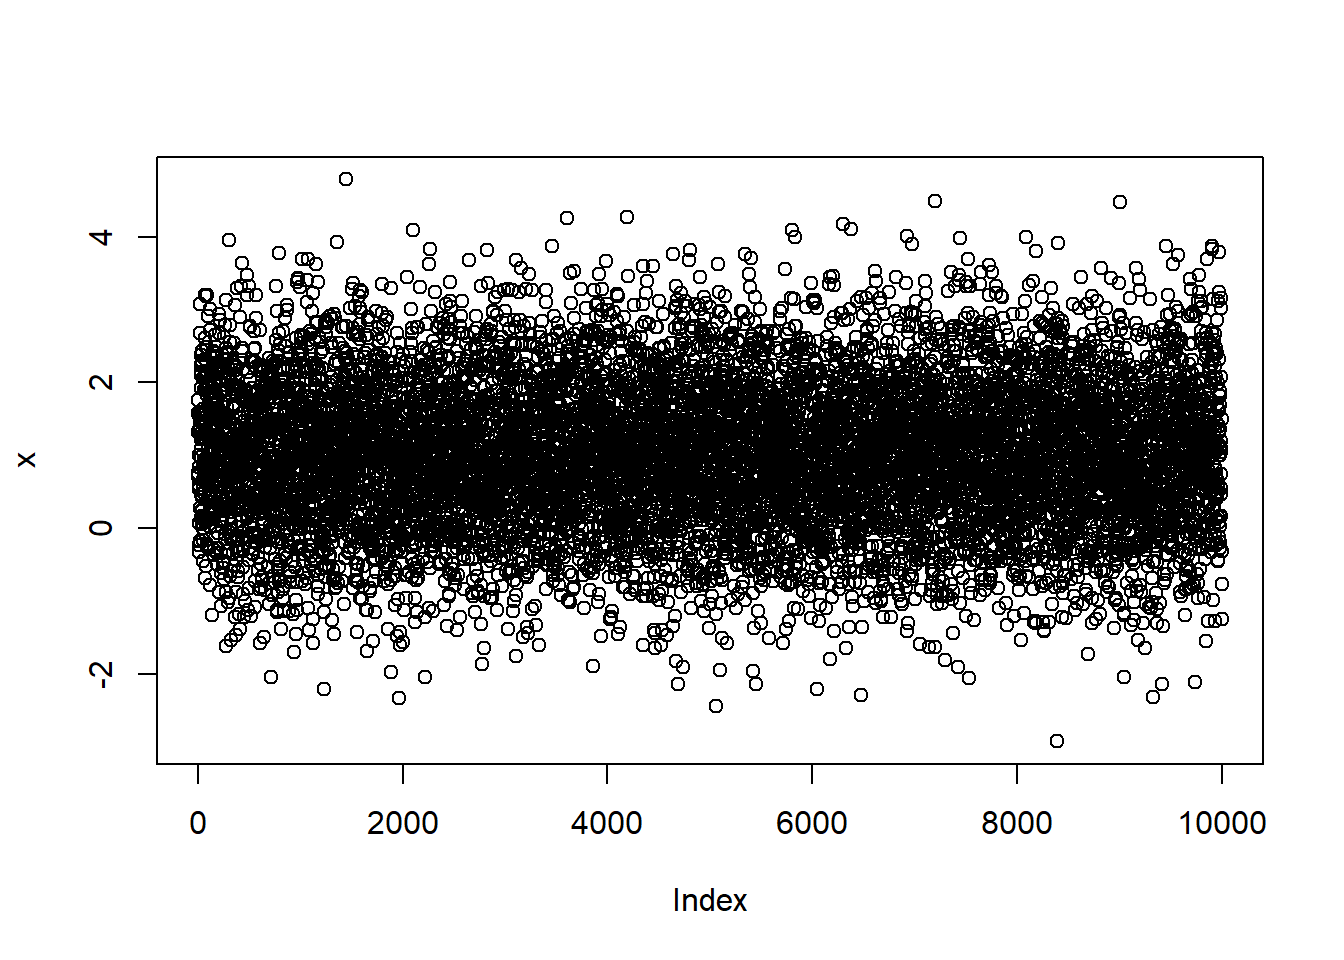
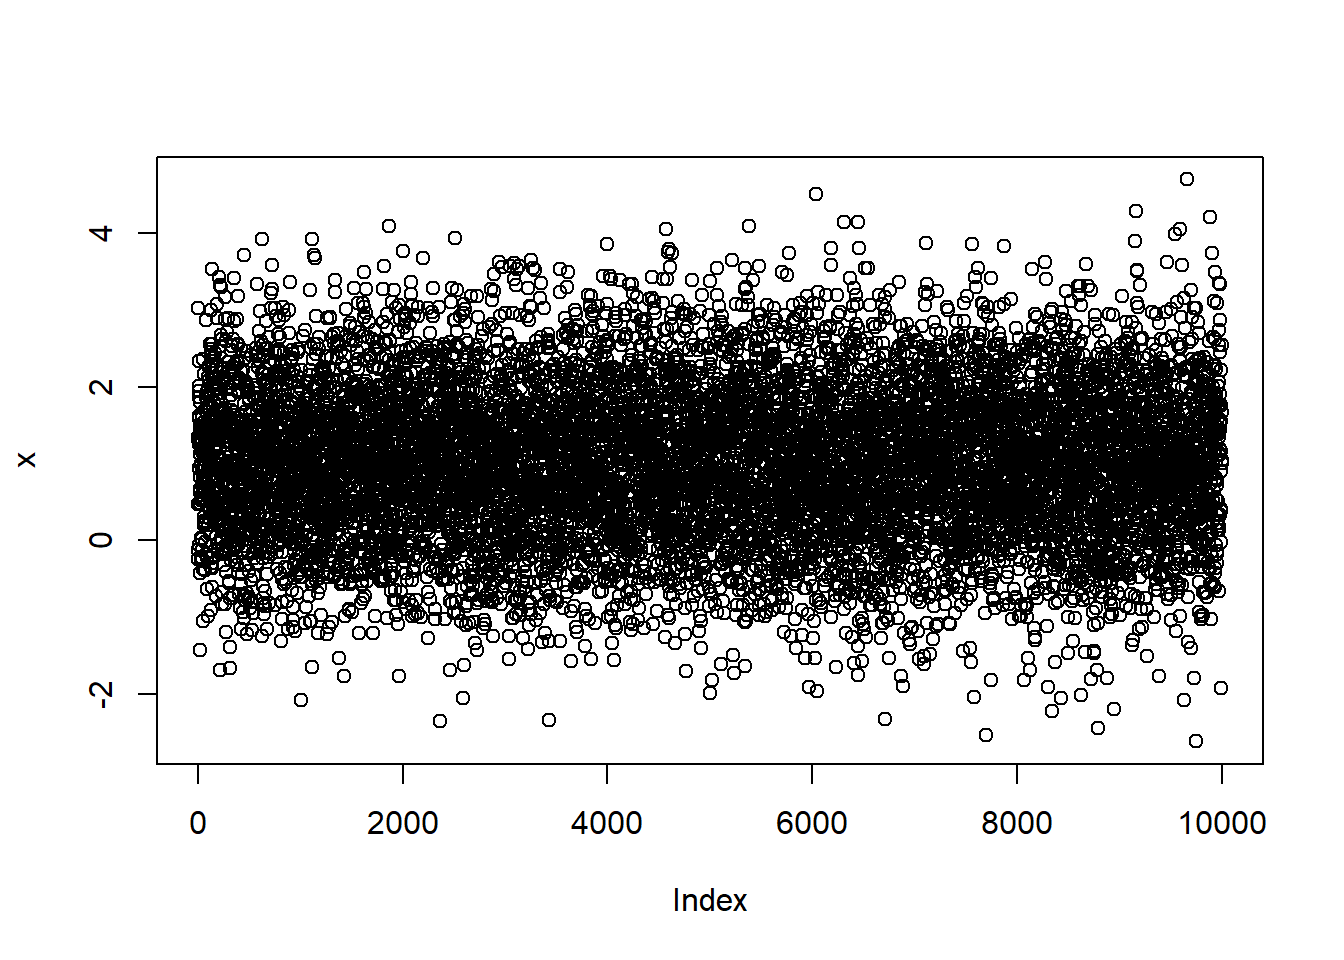
dfv

diff --git a/content/post/2019-05-10-comando-basicos-r.html b/content/post/2019-05-10-comando-basicos-r.html
@@ -27,24 +27,30 @@ image:
 </ul></li>
 <li><a href="#tudo-no-r-e-objeto">Tudo no R é objeto</a><ul>
 <li><a href="#armazenando-dados-em-objetos">Armazenando dados em objetos</a></li>
-<li><a href="#concatenando-diversos-valores-e-atribuindo-os-a-um-objeto">Concatenando diversos valores e atribuindo-os a um objeto</a></li>
+<li><a href="#concatenando-diversos-valores-e-armazenando-os-a-um-objeto">Concatenando diversos valores e armazenando-os a um objeto</a></li>
 <li><a href="#extraindo-um-ou-mais-valores-de-um-objeto-a-partir-da-indexacao">Extraindo um ou mais valores de um objeto a partir da indexação</a></li>
-<li><a href="#operadores-de-logica">Operadores de lógica</a></li>
-<li><a href="#tipos-de-dados">TIPOS DE DADOS</a><ul>
+<li><a href="#principais-tipos-de-objetos">PRINCIPAIS <strong>TIPOS</strong> DE OBJETOS</a><ul>
+<li><a href="#funcoes">funções</a></li>
+<li><a href="#vetor">vetor</a></li>
+<li><a href="#matriz">matriz</a></li>
+<li><a href="#dataframe">dataframe</a></li>
+<li><a href="#array">array</a></li>
+<li><a href="#lista">lista</a></li>
+</ul></li>
+<li><a href="#principais-classes-de-objetos">PRINCIPAIS <strong>CLASSES</strong> DE OBJETOS</a><ul>
 <li><a href="#numerical">numerical</a></li>
 <li><a href="#character">character</a></li>
 <li><a href="#valores-logicos">valores lógicos</a></li>
 <li><a href="#factor">factor</a></li>
-<li><a href="#vetor">vetor</a></li>
-<li><a href="#lista">lista</a></li>
-<li><a href="#matriz">matriz</a></li>
-<li><a href="#dataframe">dataframe</a></li>
 </ul></li>
+<li><a href="#operadores-de-logica">Operadores de lógica</a></li>
 <li><a href="#funcoes-if-e-else">Funções <code>if</code> e <code>else</code></a></li>
 <li><a href="#funcao-for">Função <code>for</code></a></li>
 <li><a href="#ou">…ou</a></li>
+</ul></li>
+<li><a href="#gerando-numeros-aleatorios-e-amostragem">Gerando números aleatórios e amostragem</a><ul>
 <li><a href="#histograma">Histograma</a></li>
-<li><a href="#grafico-de-disperso">Gráfico de dispers?o</a></li>
+<li><a href="#grafico-de-dispersao">Gráfico de dispersão</a></li>
 <li><a href="#barplot">Barplot</a></li>
 <li><a href="#boxplot">Boxplot</a></li>
 <li><a href="#torta">Torta</a></li>
@@ -238,7 +244,7 @@ Auckland, ajudaram Ross Ihaka a desenvolver a versão para Macintosh.</p>
 ## cite it when using it for data analysis. See also
 ## &#39;citation(&quot;pkgname&quot;)&#39; for citing R packages.</code></pre>
 <pre class="r"><code>Sys.time()                  # obtém data e hora exata do sistema</code></pre>
-<pre><code>## [1] &quot;2019-05-16 00:40:16 -03&quot;</code></pre>
+<pre><code>## [1] &quot;2019-05-16 12:05:01 -03&quot;</code></pre>
 </div>
 <div id="operadores-simples-e-funcoes-matematicas" class="section level2">
 <h2>Operadores simples e funções matemáticas</h2>
@@ -283,24 +289,27 @@ Auckland, ajudaram Ross Ihaka a desenvolver a versão para Macintosh.</p>
 </div>
 <div id="funcoes-trigonometricas" class="section level2">
 <h2>Funções trigonométricas</h2>
-<pre class="r"><code>cos(10)                     # cosseno</code></pre>
-<pre><code>## [1] -0.8390715</code></pre>
-<pre class="r"><code>sin(10)                     # seno</code></pre>
-<pre><code>## [1] -0.5440211</code></pre>
-<pre class="r"><code>tan(10)                     # tangente</code></pre>
-<pre><code>## [1] 0.6483608</code></pre>
-<pre class="r"><code>acos(0.1)                   # arco cosseno</code></pre>
-<pre><code>## [1] 1.470629</code></pre>
-<pre class="r"><code>asin(1)                     # arco seno</code></pre>
-<pre><code>## [1] 1.570796</code></pre>
-<pre class="r"><code>atan(1)                     # arco tangente</code></pre>
-<pre><code>## [1] 0.7853982</code></pre>
-<pre class="r"><code>acosh(10)                   # arco cosseno hiperbólico</code></pre>
-<pre><code>## [1] 2.993223</code></pre>
-<pre class="r"><code>asinh(0.1)                  # arco seno hiperbólico</code></pre>
-<pre><code>## [1] 0.09983408</code></pre>
-<pre class="r"><code>atanh(0.1)                  # arco tangente hiperbólico</code></pre>
-<pre><code>## [1] 0.1003353</code></pre>
+<pre class="r"><code>cos(30)         # cosseno</code></pre>
+<pre><code>## [1] 0.1542514</code></pre>
+<pre class="r"><code>sin(45)         # seno</code></pre>
+<pre><code>## [1] 0.8509035</code></pre>
+<pre class="r"><code>tan(90)         # tangente</code></pre>
+<pre><code>## [1] -1.9952</code></pre>
+<pre class="r"><code>acos(45)        # arco cosseno</code></pre>
+<pre><code>## Warning in acos(45): NaNs produzidos</code></pre>
+<pre><code>## [1] NaN</code></pre>
+<pre class="r"><code>asin(30)        # arco seno</code></pre>
+<pre><code>## Warning in asin(30): NaNs produzidos</code></pre>
+<pre><code>## [1] NaN</code></pre>
+<pre class="r"><code>atan(60)        # arco tangente</code></pre>
+<pre><code>## [1] 1.554131</code></pre>
+<pre class="r"><code>acosh(30)       # arco cosseno hiperbólico</code></pre>
+<pre><code>## [1] 4.094067</code></pre>
+<pre class="r"><code>asinh(45)       # arco seno hiperbólico</code></pre>
+<pre><code>## [1] 4.499933</code></pre>
+<pre class="r"><code>atanh(60)       # arco tangente hiperbólico</code></pre>
+<pre><code>## Warning in atanh(60): NaNs produzidos</code></pre>
+<pre><code>## [1] NaN</code></pre>
 </div>
 <div id="sequencias" class="section level2">
 <h2>Sequências</h2>
@@ -314,9 +323,9 @@ Auckland, ajudaram Ross Ihaka a desenvolver a versão para Macintosh.</p>
 </div>
 <div id="repeticoes" class="section level2">
 <h2>Repetições</h2>
-<pre class="r"><code>rep(5.3, 17)                    # Repete o valor 5.3, 17 vezes</code></pre>
+<pre class="r"><code>rep(5.3, 17)          # Repete o valor 5.3, 17 vezes</code></pre>
 <pre><code>##  [1] 5.3 5.3 5.3 5.3 5.3 5.3 5.3 5.3 5.3 5.3 5.3 5.3 5.3 5.3 5.3 5.3 5.3</code></pre>
-<pre class="r"><code>rep(1:6, rep(3))                # Repete a sequência 1 a 6, 3 vezes</code></pre>
+<pre class="r"><code>rep(1:6, rep(3))      # Repete a sequência 1 a 6, 3 vezes</code></pre>
 <pre><code>##  [1] 1 2 3 4 5 6 1 2 3 4 5 6 1 2 3 4 5 6</code></pre>
 </div>
 <div id="constantes-do-r" class="section level2">
@@ -356,8 +365,8 @@ Auckland, ajudaram Ross Ihaka a desenvolver a versão para Macintosh.</p>
 <div id="tudo-no-r-e-objeto" class="section level1">
 <h1>Tudo no R é objeto</h1>
 <p>{{% alert note %}}
-O R é uma linguagem de <strong>POO</strong> (Programação Orientada a Objetos)<br />
-Todo objeto possui uma <strong>CLASSE</strong>
+O R é uma linguagem de <strong>POO</strong> (Programação Orientada a Objetos)</p>
+<p>Todo objeto possui uma <strong>CLASSE</strong>
 {{% /alert %}}</p>
 <div id="armazenando-dados-em-objetos" class="section level2">
 <h2>Armazenando dados em objetos</h2>
@@ -371,8 +380,8 @@ y</code></pre>
 z</code></pre>
 <pre><code>## [1] 11 12 13 14 15</code></pre>
 </div>
-<div id="concatenando-diversos-valores-e-atribuindo-os-a-um-objeto" class="section level2">
-<h2>Concatenando diversos valores e atribuindo-os a um objeto</h2>
+<div id="concatenando-diversos-valores-e-armazenando-os-a-um-objeto" class="section level2">
+<h2>Concatenando diversos valores e armazenando-os a um objeto</h2>
 <pre class="r"><code>w &lt;- c(4,5,6,7,8)
 w</code></pre>
 <pre><code>## [1] 4 5 6 7 8</code></pre>
@@ -383,27 +392,31 @@ w</code></pre>
 <pre><code>## [1] 6</code></pre>
 <pre class="r"><code>w[c(1,4)]</code></pre>
 <pre><code>## [1] 4 7</code></pre>
-</div>
-<div id="operadores-de-logica" class="section level2">
-<h2>Operadores de lógica</h2>
-<pre class="r"><code>a &lt;- c(1:10)
-a</code></pre>
-<pre><code>##  [1]  1  2  3  4  5  6  7  8  9 10</code></pre>
-<pre class="r"><code>a[(a&gt;8) | (a&lt;5)]</code></pre>
-<pre><code>## [1]  1  2  3  4  9 10</code></pre>
-<p>Como funciona…</p>
-<pre class="r"><code>a &gt; 8</code></pre>
-<pre><code>##  [1] FALSE FALSE FALSE FALSE FALSE FALSE FALSE FALSE  TRUE  TRUE</code></pre>
-<pre class="r"><code>a &lt; 5</code></pre>
-<pre><code>##  [1]  TRUE  TRUE  TRUE  TRUE FALSE FALSE FALSE FALSE FALSE FALSE</code></pre>
-<pre class="r"><code>a &gt; 8 | x &lt; 5</code></pre>
-<pre><code>##  [1]  TRUE  TRUE  TRUE  TRUE FALSE  TRUE  TRUE  TRUE  TRUE  TRUE</code></pre>
-<pre class="r"><code>a[c(T,T,T,T,F,F,F,F,T,T)]</code></pre>
-<pre><code>## [1]  1  2  3  4  9 10</code></pre>
 <hr />
 </div>
-<div id="tipos-de-dados" class="section level2">
-<h2>TIPOS DE DADOS</h2>
+<div id="principais-tipos-de-objetos" class="section level2">
+<h2>PRINCIPAIS <strong>TIPOS</strong> DE OBJETOS</h2>
+<div id="funcoes" class="section level3">
+<h3>funções</h3>
+</div>
+<div id="vetor" class="section level3">
+<h3>vetor</h3>
+</div>
+<div id="matriz" class="section level3">
+<h3>matriz</h3>
+</div>
+<div id="dataframe" class="section level3">
+<h3>dataframe</h3>
+</div>
+<div id="array" class="section level3">
+<h3>array</h3>
+</div>
+<div id="lista" class="section level3">
+<h3>lista</h3>
+</div>
+</div>
+<div id="principais-classes-de-objetos" class="section level2">
+<h2>PRINCIPAIS <strong>CLASSES</strong> DE OBJETOS</h2>
 <div id="numerical" class="section level3">
 <h3>numerical</h3>
 </div>
@@ -440,18 +453,6 @@ kids</code></pre>
 <pre class="r"><code>mode(kids)</code></pre>
 <pre><code>## [1] &quot;numeric&quot;</code></pre>
 <p>(continua…)</p>
-</div>
-<div id="vetor" class="section level3">
-<h3>vetor</h3>
-</div>
-<div id="lista" class="section level3">
-<h3>lista</h3>
-</div>
-<div id="matriz" class="section level3">
-<h3>matriz</h3>
-</div>
-<div id="dataframe" class="section level3">
-<h3>dataframe</h3>
 <pre class="r"><code>jim &lt;- list(height = 2.54 * 12 * 6/100, weight = 180/2.2, name = &quot;James&quot;)
 jim</code></pre>
 <pre><code>## $height
@@ -545,50 +546,6 @@ matrix</code></pre>
 <pre class="r"><code>length(matrix)</code></pre>
 <pre><code>## [1] 12</code></pre>
 <hr />
-<pre class="r"><code>runif(100) # Gera números aleatórios entre 0 e 1 com distribuição uniforme</code></pre>
-<pre><code>##   [1] 0.8873295109 0.9131463463 0.9363831126 0.3236426108 0.2068508908
-##   [6] 0.9138866141 0.9935081119 0.9784298572 0.8969238433 0.4201863534
-##  [11] 0.6530961702 0.6874217289 0.6223604665 0.9766138310 0.0900402269
-##  [16] 0.0051619299 0.9070598122 0.3184204614 0.7529286484 0.3960770736
-##  [21] 0.5720127875 0.7606621776 0.0369924824 0.8041898580 0.9657113913
-##  [26] 0.5596684483 0.2991447260 0.2349487063 0.1214449562 0.5782868525
-##  [31] 0.4962262507 0.3338150478 0.5939750602 0.8810042066 0.1438365683
-##  [36] 0.3792009465 0.8941506092 0.1711953434 0.3744596653 0.2820363517
-##  [41] 0.0003455218 0.4538308461 0.7634957053 0.6191116029 0.8940538184
-##  [46] 0.2969688131 0.2676801977 0.5710057192 0.3340058047 0.1555532461
-##  [51] 0.7130892049 0.5369954084 0.9102263395 0.8420072326 0.0798368461
-##  [56] 0.9967052385 0.8342100598 0.4553865283 0.7420275265 0.3043108678
-##  [61] 0.7950190625 0.1915188895 0.4974727363 0.5633286634 0.1848770774
-##  [66] 0.7636844546 0.7276212287 0.0982154850 0.7395755399 0.3271181602
-##  [71] 0.0999372192 0.5591167014 0.3270326634 0.9577630456 0.2030441810
-##  [76] 0.4183535585 0.3155397768 0.0726431387 0.5432731495 0.4245309632
-##  [81] 0.9037229060 0.4725517058 0.7878451950 0.1007448426 0.4780097369
-##  [86] 0.6007058762 0.5395689260 0.8490825163 0.1604597857 0.0242628243
-##  [91] 0.3790111227 0.5420017506 0.3500973326 0.1834478767 0.0337370902
-##  [96] 0.4047735152 0.3491395584 0.8650103284 0.4841578754 0.1775402264</code></pre>
-<pre class="r"><code>rnorm(100) # Gera números aleatórios com distribuição normal</code></pre>
-<pre><code>##   [1]  0.162131949  1.673123120  2.035505127 -0.377971104  0.518950499
-##   [6]  0.557857346 -1.404892088  0.627609703  2.029111035  0.026293848
-##  [11] -0.477998888  1.440135274  0.912397117  0.254027142 -0.803328136
-##  [16] -0.538083299 -1.254555417  1.706929384 -0.228950435  0.289924176
-##  [21] -0.606942951  0.766265725  1.162277912  1.268532732  0.432133549
-##  [26] -1.353529829 -0.947552988 -0.242688956  0.332814136  1.174053680
-##  [31] -0.439897585 -0.556624085 -0.727591258  0.966068707 -1.760733692
-##  [36] -0.080080033  0.224086876 -1.076474633 -1.297123469 -0.693354977
-##  [41] -0.793807509  1.340377071  0.341324213  0.767729505 -1.257976438
-##  [46] -0.739855220  1.322391848 -0.626104173  0.801680489 -0.535756463
-##  [51] -0.071695689 -0.232261362  0.232025133  0.435674307  0.441455002
-##  [56] -0.175360774 -1.552028368 -0.336766085 -2.568691983  2.179560632
-##  [61] -1.523430855 -0.709488354  2.006395271 -0.378403143 -0.660395481
-##  [66]  0.692669400 -0.561615587 -0.622423739 -0.662013239 -0.025664792
-##  [71]  1.010408909  1.595756366 -2.297893733  0.394567243 -1.340153549
-##  [76] -0.927804516  1.664832538 -1.100272551  1.221449006 -0.779876602
-##  [81]  2.337946840 -0.644779745 -0.805687139 -0.434966667 -0.066357195
-##  [86] -0.622706169  0.474719489  0.644952947  0.734770286 -0.337376138
-##  [91] -1.815855105 -0.697656195  1.599978779 -0.498202858 -0.813662642
-##  [96] -0.376399118  0.002126588  0.073807532 -2.338377033 -0.267045133</code></pre>
-<pre class="r"><code>sample(1:100, 4) # Amostragem</code></pre>
-<pre><code>## [1] 66 99 61 17</code></pre>
 <p>#Funções vetoriais
 max(x) # valor máximo em x
 min(x) # valor mínimo em x
@@ -611,17 +568,34 @@ ncol(x) #Número de colunas da matriz
 attr(x)</p>
 </div>
 </div>
+<div id="operadores-de-logica" class="section level2">
+<h2>Operadores de lógica</h2>
+<pre class="r"><code>a &lt;- c(1:10)
+a</code></pre>
+<pre><code>##  [1]  1  2  3  4  5  6  7  8  9 10</code></pre>
+<pre class="r"><code>a[(a&gt;8) | (a&lt;5)]</code></pre>
+<pre><code>## [1]  1  2  3  4  9 10</code></pre>
+<p>Como funciona…</p>
+<pre class="r"><code>a &gt; 8</code></pre>
+<pre><code>##  [1] FALSE FALSE FALSE FALSE FALSE FALSE FALSE FALSE  TRUE  TRUE</code></pre>
+<pre class="r"><code>a &lt; 5</code></pre>
+<pre><code>##  [1]  TRUE  TRUE  TRUE  TRUE FALSE FALSE FALSE FALSE FALSE FALSE</code></pre>
+<pre class="r"><code>a &gt; 8 | x &lt; 5</code></pre>
+<pre><code>##  [1] FALSE FALSE FALSE FALSE FALSE FALSE FALSE FALSE  TRUE  TRUE</code></pre>
+<pre class="r"><code>a[c(T,T,T,T,F,F,F,F,T,T)]</code></pre>
+<pre><code>## [1]  1  2  3  4  9 10</code></pre>
+</div>
 <div id="funcoes-if-e-else" class="section level2">
 <h2>Funções <code>if</code> e <code>else</code></h2>
 <pre class="r"><code>x &lt;- 2
 if(x == 1) {         
-  Sys.time()      # Devolve a data/hora no momento da execu??o.
+  Sys.time()
 }
 x &lt;- 1
 if(x == 1) {
   Sys.time()
 }</code></pre>
-<pre><code>## [1] &quot;2019-05-16 00:40:18 -03&quot;</code></pre>
+<pre><code>## [1] &quot;2019-05-16 12:05:03 -03&quot;</code></pre>
 <pre class="r"><code>if(x &lt; 0) {
   sinal &lt;- &quot;negativo&quot;
 } else if(x == 0) {
@@ -634,7 +608,7 @@ sinal</code></pre>
 </div>
 <div id="funcao-for" class="section level2">
 <h2>Função <code>for</code></h2>
-<pre class="r"><code>x &lt;- 1:10   # Cria um vetor com a sequ?ncia 1, 2, ..., 10.
+<pre class="r"><code>x &lt;- 1:10   # Cria um vetor com a sequência 1, 2, ..., 10.
 soma &lt;- 0
 for(i in 1:10) {
   soma &lt;- soma + x[i]
@@ -646,24 +620,72 @@ soma</code></pre>
 <h2>…ou</h2>
 <pre class="r"><code>sum(x)</code></pre>
 <pre><code>## [1] 55</code></pre>
+<hr />
 </div>
+</div>
+<div id="gerando-numeros-aleatorios-e-amostragem" class="section level1">
+<h1>Gerando números aleatórios e amostragem</h1>
+<pre class="r"><code>runif(100)        # Gera números aleatórios entre 0 e 1 com distribuição uniforme</code></pre>
+<pre><code>##   [1] 0.74868471 0.65302577 0.59695364 0.55191148 0.32367409 0.50151795
+##   [7] 0.73200879 0.32027399 0.74268824 0.22065408 0.94536031 0.35376165
+##  [13] 0.92954102 0.33572480 0.80530736 0.41712829 0.68905828 0.70772629
+##  [19] 0.27111391 0.10935925 0.90254411 0.68728077 0.37850139 0.61874865
+##  [25] 0.10500243 0.75810282 0.67866942 0.13475690 0.10595073 0.80810289
+##  [31] 0.93698392 0.97372232 0.62906478 0.62958915 0.31291607 0.72384826
+##  [37] 0.94849183 0.44476111 0.24896516 0.13864263 0.68392851 0.11074143
+##  [43] 0.83151530 0.97213242 0.25686078 0.59969925 0.71328982 0.38620925
+##  [49] 0.75160951 0.48872754 0.28012227 0.55768422 0.98274667 0.63228730
+##  [55] 0.71839802 0.90468774 0.56187824 0.22425593 0.08417468 0.88762021
+##  [61] 0.71924922 0.05556459 0.39070650 0.14712495 0.57410049 0.45704987
+##  [67] 0.10567661 0.44479792 0.97438534 0.63878716 0.47128369 0.75063800
+##  [73] 0.23242981 0.04554077 0.48599683 0.07947313 0.41405370 0.65925056
+##  [79] 0.83474741 0.86518329 0.96686736 0.59652100 0.81870572 0.36835734
+##  [85] 0.39691555 0.94663948 0.24698887 0.07792741 0.64322108 0.30372731
+##  [91] 0.64177957 0.55584117 0.31437438 0.09927427 0.78746569 0.66986416
+##  [97] 0.32156624 0.38379057 0.60148639 0.72402225</code></pre>
+<pre class="r"><code>rnorm(100)        # Gera números aleatórios com distribuição normal</code></pre>
+<pre><code>##   [1]  0.431780006  0.551085206  1.018301452 -0.574007364 -0.454427141
+##   [6] -0.005939572  1.725295736  0.656484200 -0.117976666  0.749237744
+##  [11]  0.848984682 -1.203014499  1.939838703 -0.717859808  0.158722889
+##  [16]  0.814551785  0.281165896 -1.438669475 -0.798366331 -0.602131220
+##  [21]  0.458247909  0.379899883  0.596349359 -0.434007042 -0.066142898
+##  [26] -0.552351753 -1.454676105 -0.060509268 -0.535588303  0.269917268
+##  [31] -1.374923291 -0.149262517 -0.636440901 -0.152797825  0.699620539
+##  [36] -1.193991366  0.134376641 -0.433574769  0.087213664 -0.588150113
+##  [41] -0.524037840  0.513239710  2.477652029 -0.394012891 -0.843399586
+##  [46] -0.600943333 -1.306353116  0.747255150  1.136412689  0.649126434
+##  [51]  0.081331098 -0.113042455  1.083298802 -0.623290019  0.771415156
+##  [56] -0.475418404  0.126608504 -2.094576179 -2.054114998  1.339317108
+##  [61]  0.771909817  0.587450000  2.114556506  1.332068760 -0.162421013
+##  [66] -0.071938850 -0.310777538  0.664508468  0.568069227  0.404157788
+##  [71] -1.421518540  0.002099416  1.365489933  0.908208795 -0.804269497
+##  [76]  0.787693234 -0.949336859 -0.914661942 -0.317537566  1.818867602
+##  [81] -1.176210724  1.284287023  0.325723182  1.534362965 -0.621786396
+##  [86] -1.427521611 -0.272563680 -0.176397294  0.038684393 -2.172352371
+##  [91]  0.128287127 -1.529630299 -0.709852335 -0.014338814 -0.588561083
+##  [96] -0.542564377  0.191409736 -0.969097636  0.317898411 -0.078986738</code></pre>
+<pre class="r"><code>sample(1:100, 4)  # Amostragem</code></pre>
+<pre><code>## [1] 24  6 96 81</code></pre>
 <div id="histograma" class="section level2">
 <h2>Histograma</h2>
 <pre class="r"><code>x &lt;- rnorm(n=10000, mean=1, sd=1)
 hist(x, nclass = 40)</code></pre>
 <p><img src="2019-05-10-comando-basicos-r_files/figure-html/unnamed-chunk-26-1.png" width="672" /></p>
 </div>
-<div id="grafico-de-disperso" class="section level2">
-<h2>Gráfico de dispers?o</h2>
-<p>plot(x)</p>
+<div id="grafico-de-dispersao" class="section level2">
+<h2>Gráfico de dispersão</h2>
+<pre class="r"><code>plot(x)</code></pre>
+<p><img src="2019-05-10-comando-basicos-r_files/figure-html/unnamed-chunk-27-1.png" width="672" /></p>
 </div>
 <div id="barplot" class="section level2">
 <h2>Barplot</h2>
-<p>barplot(x)</p>
+<pre class="r"><code>barplot(x)</code></pre>
+<p><img src="2019-05-10-comando-basicos-r_files/figure-html/unnamed-chunk-28-1.png" width="672" /></p>
 </div>
 <div id="boxplot" class="section level2">
 <h2>Boxplot</h2>
-<p>boxplot(x)</p>
+<pre class="r"><code>boxplot(x)</code></pre>
+<p><img src="2019-05-10-comando-basicos-r_files/figure-html/unnamed-chunk-29-1.png" width="672" /></p>
 </div>
 <div id="torta" class="section level2">
 <h2>Torta</h2>
